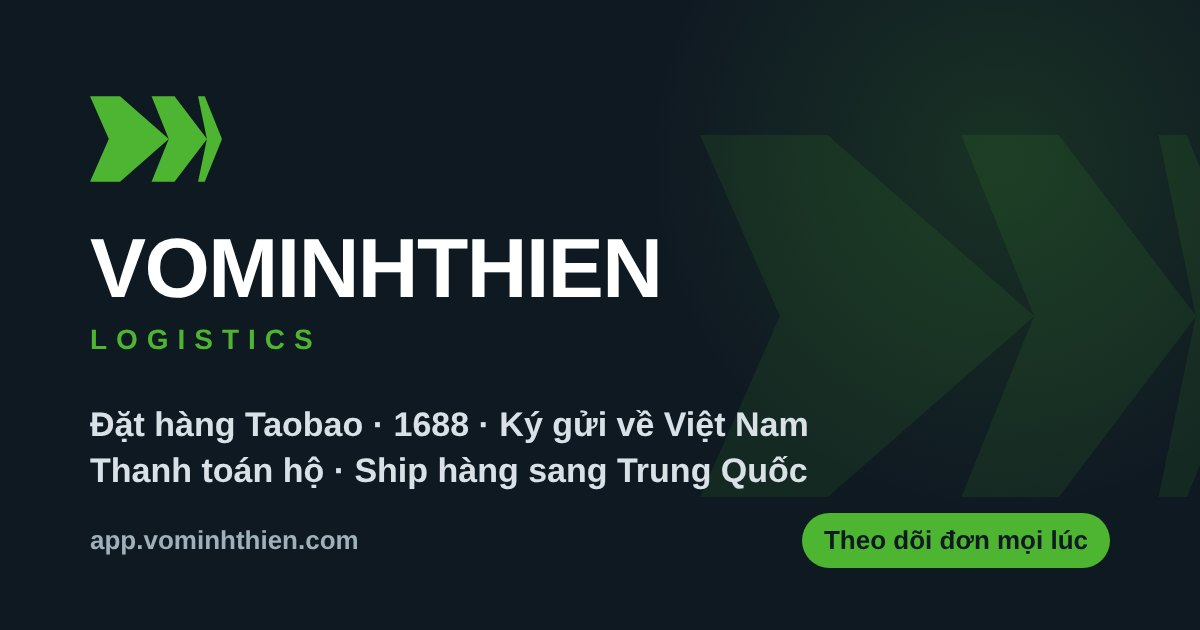
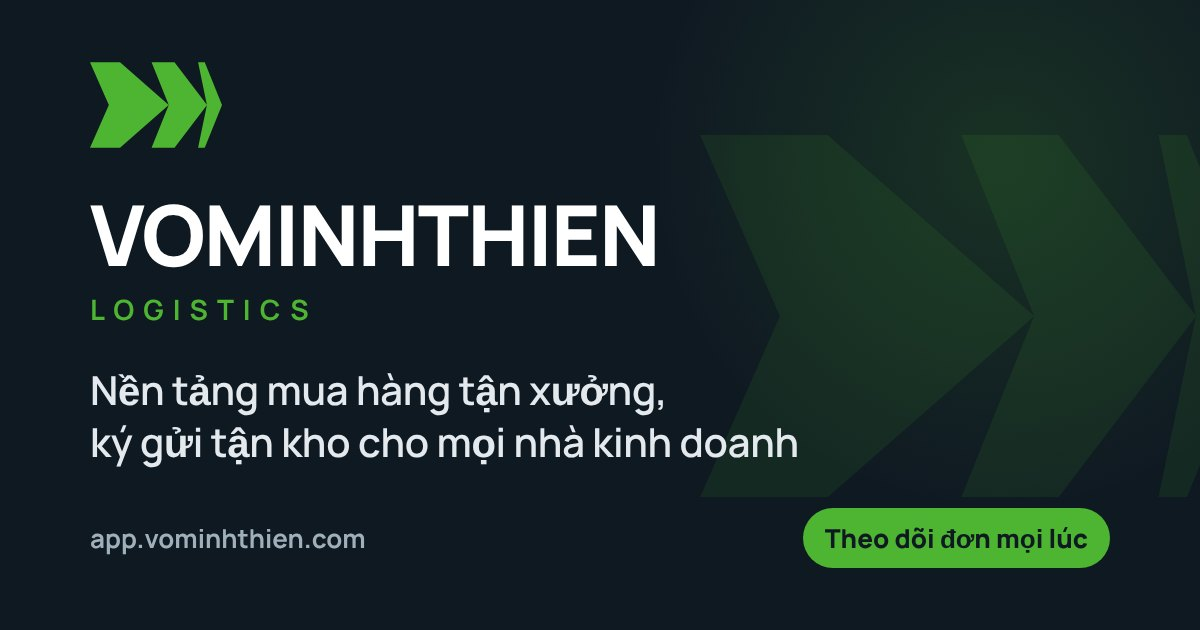
Trang khách: đổi slogan ảnh + chữ chia sẻ link theo 2 brand
- Vominhthien: "Nền tảng mua hàng tận xưởng, ký gửi tận kho cho mọi nhà kinh doanh".
- VMT Global: "Thương mại Trung - Việt · Giải pháp toàn diện" (bỏ dòng "Cùng nhau tiến bước" trên ảnh chia sẻ).
- Ảnh vẽ lại đúng font Manrope; đường dẫn ảnh thêm ?v=2 để Zalo / Facebook lấy ảnh mới. Tiêu đề + mô tả lấy theo brand (BRAND.ogTitle / ogDesc trong server.js).

Claude-Session: https://claude.ai/code/session_01GVXELPTgU7skHV8gm9mPzd

Changed region(s): [[0.0617, 0.0905, 0.6783, 0.7841], [0.6783, 0.7841, 0.925, 0.8746], [0.0617, 0.8444, 0.3083, 0.8746]]

diff --git a/khach/matkhau.html b/khach/matkhau.html
@@ -3,11 +3,11 @@
 <head>
 <meta charset="utf-8">
 <meta name="viewport" content="width=device-width,initial-scale=1,viewport-fit=cover">
-<meta name="description" content="{{NAME}}: đặt hàng Taobao, 1688, ký gửi về Việt Nam, thanh toán hộ, ship hàng sang Trung Quốc. Theo dõi đơn và nhận thông báo mọi lúc.">
+<meta name="description" content="{{OGDESC}}">
 <meta property="og:type" content="website"><meta property="og:site_name" content="{{NAME}}"><meta property="og:locale" content="vi_VN">
-<meta property="og:title" content="{{NAME}} {{TAGOG}}– Đặt hàng & theo dõi đơn"><meta property="og:description" content="Đặt hàng Taobao, 1688, ký gửi về Việt Nam, thanh toán hộ, ship hàng sang Trung Quốc. Theo dõi đơn và nhận thông báo mọi lúc.">
-<meta property="og:url" content="https://{{HOST}}/"><meta property="og:image" content="https://{{HOST}}/og.jpg"><meta property="og:image:type" content="image/jpeg"><meta property="og:image:width" content="1200"><meta property="og:image:height" content="630"><meta property="og:image:alt" content="{{NAME}}">
-<meta name="twitter:card" content="summary_large_image"><meta name="twitter:image" content="https://{{HOST}}/og.jpg">
+<meta property="og:title" content="{{OGTITLE}}"><meta property="og:description" content="{{OGDESC}}">
+<meta property="og:url" content="https://{{HOST}}/"><meta property="og:image" content="https://{{HOST}}/og.jpg?v=2"><meta property="og:image:type" content="image/jpeg"><meta property="og:image:width" content="1200"><meta property="og:image:height" content="630"><meta property="og:image:alt" content="{{NAME}}">
+<meta name="twitter:card" content="summary_large_image"><meta name="twitter:image" content="https://{{HOST}}/og.jpg?v=2">
 <link rel="icon" type="image/png" href="/pwa/icon-192.png">
 <link rel="manifest" href="/manifest.webmanifest"><link rel="apple-touch-icon" href="/apple-touch-icon.png"><meta name="apple-mobile-web-app-capable" content="yes"><meta name="mobile-web-app-capable" content="yes"><meta name="apple-mobile-web-app-status-bar-style" content="default"><meta name="apple-mobile-web-app-title" content="{{NAME}}"><meta name="theme-color" content="#eee9df">
 <title>Tạo mật khẩu · {{NAME}}</title>

diff --git a/khach/login.html b/khach/login.html
@@ -3,11 +3,11 @@
 <head>
 <meta charset="utf-8">
 <meta name="viewport" content="width=device-width,initial-scale=1,viewport-fit=cover">
-<meta name="description" content="{{NAME}}: đặt hàng Taobao, 1688, ký gửi về Việt Nam, thanh toán hộ, ship hàng sang Trung Quốc. Theo dõi đơn và nhận thông báo mọi lúc.">
+<meta name="description" content="{{OGDESC}}">
 <meta property="og:type" content="website"><meta property="og:site_name" content="{{NAME}}"><meta property="og:locale" content="vi_VN">
-<meta property="og:title" content="{{NAME}} {{TAGOG}}– Đặt hàng & theo dõi đơn"><meta property="og:description" content="Đặt hàng Taobao, 1688, ký gửi về Việt Nam, thanh toán hộ, ship hàng sang Trung Quốc. Theo dõi đơn và nhận thông báo mọi lúc.">
-<meta property="og:url" content="https://{{HOST}}/"><meta property="og:image" content="https://{{HOST}}/og.jpg"><meta property="og:image:type" content="image/jpeg"><meta property="og:image:width" content="1200"><meta property="og:image:height" content="630"><meta property="og:image:alt" content="{{NAME}}">
-<meta name="twitter:card" content="summary_large_image"><meta name="twitter:image" content="https://{{HOST}}/og.jpg">
+<meta property="og:title" content="{{OGTITLE}}"><meta property="og:description" content="{{OGDESC}}">
+<meta property="og:url" content="https://{{HOST}}/"><meta property="og:image" content="https://{{HOST}}/og.jpg?v=2"><meta property="og:image:type" content="image/jpeg"><meta property="og:image:width" content="1200"><meta property="og:image:height" content="630"><meta property="og:image:alt" content="{{NAME}}">
+<meta name="twitter:card" content="summary_large_image"><meta name="twitter:image" content="https://{{HOST}}/og.jpg?v=2">
 <link rel="icon" type="image/png" href="/pwa/icon-192.png">
 <link rel="manifest" href="/manifest.webmanifest"><link rel="apple-touch-icon" href="/apple-touch-icon.png"><meta name="apple-mobile-web-app-capable" content="yes"><meta name="mobile-web-app-capable" content="yes"><meta name="apple-mobile-web-app-status-bar-style" content="default"><meta name="apple-mobile-web-app-title" content="{{NAME}}"><meta name="theme-color" content="#eee9df">
 <title>Đăng nhập · {{NAME}}</title>

diff --git a/khach/server.js b/khach/server.js
@@ -104,8 +104,9 @@ function resolveTest() {
 resolveTest();
 
 const BRAND = {
-  green: { name: 'Vominhthien', tag: 'Logistics', host: 'app.vominhthien.com' },
-  yellow: { name: 'VMT Global', tag: 'Cùng nhau tiến bước', host: 'app.vmtglobal.com' },
+  // ogTitle / ogDesc: chu hien khi chia se link (Zalo, Facebook…) — slogan anh chot 31/10/2026
+  green: { name: 'Vominhthien', tag: 'Logistics', host: 'app.vominhthien.com', ogTitle: 'Vominhthien Logistics', ogDesc: 'Nền tảng mua hàng tận xưởng, ký gửi tận kho cho mọi nhà kinh doanh' },
+  yellow: { name: 'VMT Global', tag: 'Cùng nhau tiến bước', host: 'app.vmtglobal.com', ogTitle: 'VMT Global', ogDesc: 'Thương mại Trung - Việt · Giải pháp toàn diện' },
 };
 const hostBrand = (req) => (/vmtglobal/i.test(req.headers.host || '') ? 'yellow' : 'green');
 
@@ -232,7 +233,7 @@ function loginPage(req, res, file) {
     if (err) return send(res, 500, 'Server error');
     const b = hostBrand(req);
     const B = BRAND[b];
-    send(res, 200, html.replaceAll('{{BRAND}}', b).replaceAll('{{NAME}}', B.name).replaceAll('{{TAGOG}}', b === 'green' ? 'Logistics ' : '').replaceAll('{{TAG}}', B.tag).replaceAll('{{HOST}}', B.host), { 'Content-Type': 'text/html; charset=utf-8' });
+    send(res, 200, html.replaceAll('{{BRAND}}', b).replaceAll('{{NAME}}', B.name).replaceAll('{{OGTITLE}}', B.ogTitle).replaceAll('{{OGDESC}}', B.ogDesc).replaceAll('{{TAG}}', B.tag).replaceAll('{{HOST}}', B.host), { 'Content-Type': 'text/html; charset=utf-8' });
   });
 }
 
